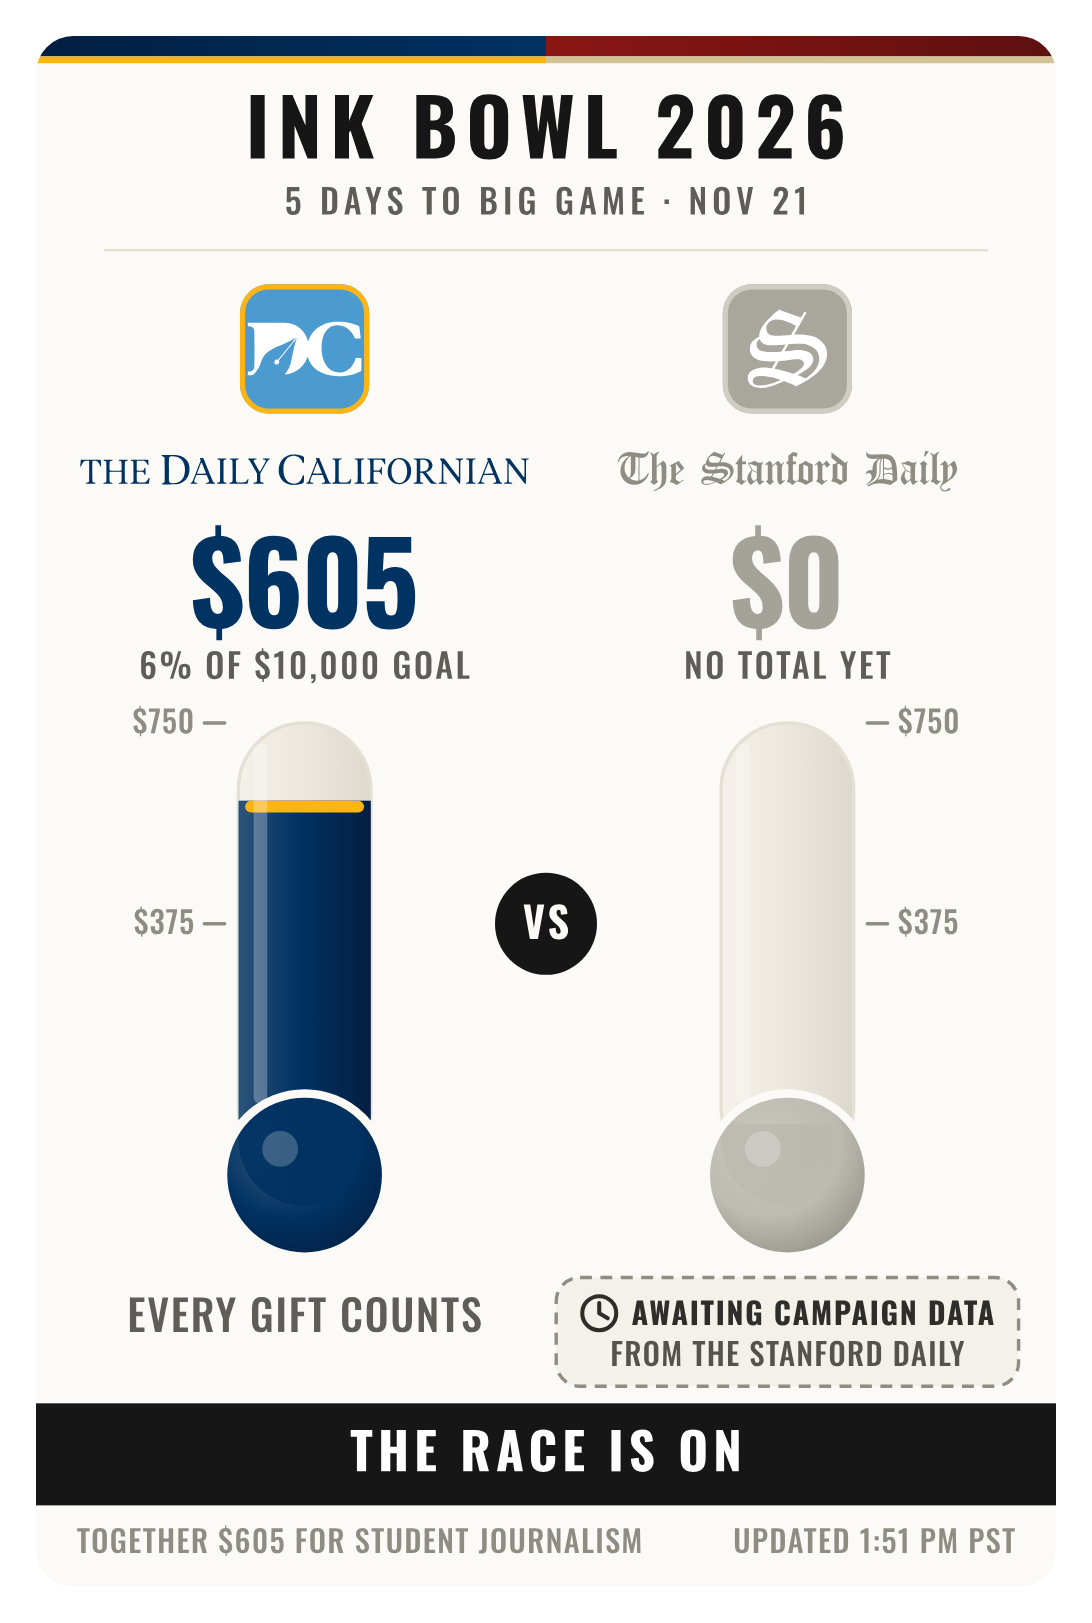
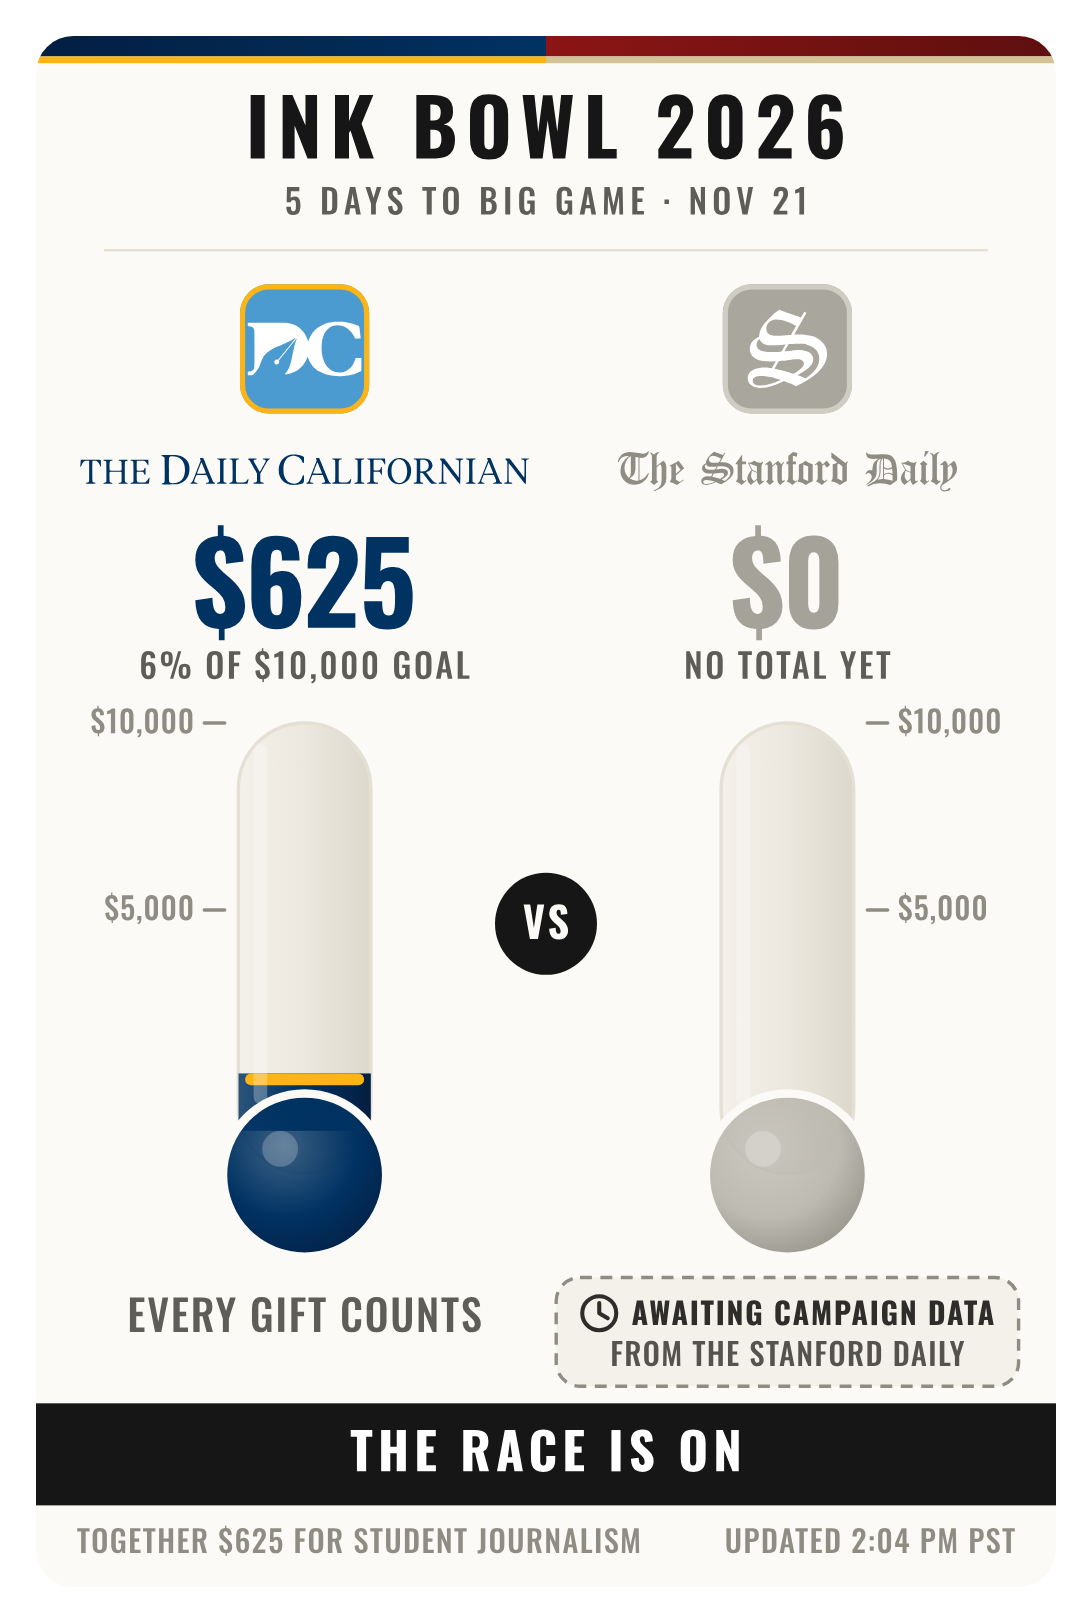
Fix: thermometer fill now agrees with '% of goal' (the tube is the goal)
The board said '6% of $10,000 goal' but the tube looked nearly full: it was scaled to the leader
(+12%), so the leading tube was always ~90% full. When a goal is known the top of the tube is now
the goal (ticks $5,000 / $10,000) and fill = raised / goal. The scale is still shared in dollars; it
extends with a dashed goal line only if the goal is passed; with no goal it falls back to the leader.

Zero is now where the tube meets the bulb (not inside it) so a small total is a visible sliver of
mercury; mercury is drawn only when there is some; the GOAL label moved beside the tube.

Tests: FILL AGREES WITH THE GOAL LABEL (the exact complaint), over-goal, no-goal. Docs: CHANGELOG,
HISTORY (decision 3 reversed), README, FAIRNESS, CLAUDE.md invariant.

Claude-Session: https://claude.ai/code/session_01EpxwSrKrkjt1ueGdWtL3w7

diff --git a/src/render.js b/src/render.js
@@ -174,22 +174,26 @@ function thermometer(side, { cx, flip, T, accents }) {
   const x = cx - TUBE_W / 2;
   const rx = TUBE_W / 2;
   const bulbCy = Y.tubeBottom + BULB_R * 0.62;
-  const fillH = r2(tubeH * side.frac);
-  const fillY = r2(Y.tubeBottom - fillH);
+  // Zero is where the tube meets the bulb (as on a real thermometer), not inside the bulb: otherwise a small total sits
+  // entirely behind the bulb and the tube looks empty. The scale runs from `zeroY` up to the top of the tube.
+  const zeroY = bulbCy - BULB_R + 2;
+  const span = zeroY - Y.tubeTop;
+  const fillH = r2(span * side.frac);
+  const fillY = r2(zeroY - fillH);
   const id = side.key;
   const dir = flip ? -1 : 1;              // ticks + labels on the OUTER edge
   const tickX = cx + dir * (TUBE_W / 2 + 8);
 
   const ticks = [0.5, 1].map((f) => {
-    const y = r2(Y.tubeBottom - tubeH * f);
+    const y = r2(zeroY - span * f);
     return `<line x1="${tickX}" y1="${y}" x2="${tickX + dir * 12}" y2="${y}" stroke="${INK_FAINT}" stroke-width="2" stroke-linecap="round"/>
       ${T(side.scaleLabels[f], { face: 'display500', size: 18, x: tickX + dir * 18, y: y + 6, anchor: flip ? 'end' : 'start', spacing: 0.5, fill: INK_FAINT })}`;
   }).join('');
 
   const goal = side.goalFrac != null ? (() => {
-    const y = r2(Y.tubeBottom - tubeH * side.goalFrac);
+    const y = r2(zeroY - span * side.goalFrac);
     return `<line x1="${x - 10}" y1="${y}" x2="${x + TUBE_W + 10}" y2="${y}" stroke="${INK}" stroke-width="2" stroke-dasharray="4 4"/>
-      ${T('GOAL', { face: 'display700', size: 16, x: cx, y: y - 7, anchor: 'middle', spacing: 1.5, fill: INK })}`;
+      ${T('GOAL', { face: 'display700', size: 16, x: flip ? x + TUBE_W + 14 : x - 14, y: y + 5, anchor: flip ? 'start' : 'end', spacing: 1.5, fill: INK })}`;
   })() : '';
 
   const cap = side.frac > 0
@@ -216,7 +220,7 @@ function thermometer(side, { cx, flip, T, accents }) {
     </defs>
     ${ticks}
     <rect x="${x}" y="${Y.tubeTop}" width="${TUBE_W}" height="${tubeH + BULB_R * 0.6}" rx="${rx}" fill="url(#glass-${id})" stroke="${RULE}" stroke-width="2"/>
-    <rect x="${x}" y="${fillY}" width="${TUBE_W}" height="${fillH + BULB_R}" fill="url(#merc-${id})" clip-path="url(#tube-${id})"/>
+    ${side.frac > 0 ? `<rect x="${x}" y="${fillY}" width="${TUBE_W}" height="${fillH + 20}" fill="url(#merc-${id})" clip-path="url(#tube-${id})"/>` : ''}
     ${cap}
     <rect x="${x + 9}" y="${Y.tubeTop + 12}" width="8" height="${tubeH - 24}" rx="4" fill="#FFFFFF" fill-opacity="0.28"/>
     <circle cx="${cx}" cy="${bulbCy}" r="${BULB_R}" fill="url(#bulb-${id})" stroke="${PAPER}" stroke-width="5"/>

diff --git a/src/model.js b/src/model.js
@@ -90,16 +90,23 @@ export function buildBoard({ event, gameDate, now = new Date(), cal, stanford })
 
   const [a, b] = sides;
   const top = Math.max(a.raised, b.raised);
-  // Scale to the leader with headroom, so the race always fills the frame.
-  // Falls back to a goal (or $1k) before any money arrives.
-  const scaleMax = niceCeiling(top > 0 ? top * 1.12 : (a.goal ?? b.goal ?? 4000) * 0.25);
+  // HONEST SCALE: when a goal is known the tube IS the goal (top of the tube = the goal), so how full it is always agrees
+  // with "N% of $G goal". It only grows if someone raises past the goal. (An earlier version scaled to the leader, so the
+  // leading tube looked nearly full at 6% of goal, which was misleading.) The scale is shared by both sides, in dollars,
+  // so the taller tube is still the side that has raised more. With no goal at all, fall back to the leader with headroom.
+  const goalTop = Math.max(0, ...sides.map((s) => s.goal ?? 0));
+  const scaleMax = goalTop > 0
+    ? niceCeiling(Math.max(goalTop, top * 1.05))
+    : niceCeiling(top > 0 ? top * 1.12 : 1000);
 
   const MIN_VISIBLE = 0.035; // a $5 gift should still be visible as mercury
   for (const s of sides) {
     const frac = scaleMax > 0 ? s.raised / scaleMax : 0;
     s.frac = s.raised > 0 ? Math.max(MIN_VISIBLE, Math.min(1, frac)) : 0;
     s.pctOfGoal = s.goal ? Math.min(999, Math.round((s.raised / s.goal) * 100)) : null;
-    s.goalFrac = s.goal && s.goal <= scaleMax ? s.goal / scaleMax : null;
+    // The goal line only appears when the goal sits below the top of the tube (i.e. someone has passed it); otherwise the
+    // top of the tube is the goal and the top tick says so.
+    s.goalFrac = s.goal && s.goal / scaleMax < 0.995 ? s.goal / scaleMax : null;
     s.raisedText = formatMoney(s.raised);
     s.goalText = s.goal ? formatMoney(s.goal) : null;
     s.scaleLabels = { 0.5: formatMoney(scaleMax / 2), 1: formatMoney(scaleMax) };

diff --git a/docs/FAIRNESS.md b/docs/FAIRNESS.md
@@ -12,7 +12,7 @@ checked here. Rules live in `src/render.js`; tests in `test/render.test.mjs` enf
 | **Decorative accents** (tile ring, mercury cap, top-bar underline) | **Brand accents, structurally identical** (`ACCENTS = 'brand'`) | **Owner's decision, 2026-11-13:** keep California Gold and Stanford Sandstone. Ring width/opacity, cap size and underline are identical for both sides, but the colours are not equally vivid: gold is far more saturated than sandstone, so Cal's ring and cap draw a bit more attention. This was shown side by side (`design/accent-parity.png`) and accepted. `ACCENTS = 'neutral'` gives both one identical pale highlight if that changes. Tests assert the treatment is structurally identical. |
 | **A side awaiting its campaign** | Grayed-out column + dashed "AWAITING CAMPAIGN DATA" notice; **nobody leads** while either side is pending | Symmetric (either paper gets it). Neutral banner ("THE RACE IS ON"), "EVERY GIFT COUNTS" for the live side, `leader: null`. A side with no data is never compared against: no "leads by", "ahead by" or "takes the lead". Compared: `design/2026-pending-states.png`. |
 | **Amounts, goal lines, labels, ticks** | Same typeface, size, weight, spacing | By construction (one code path). |
-| **Thermometers** | Identical geometry; **one shared scale keyed to the leader** | By construction; the taller tube is always the side that is ahead. |
+| **Thermometers** | Identical geometry; **one shared dollar scale whose top is the goal** (tube fill = raised / goal) | By construction; the taller tube is always the side that is ahead. |
 | **Leader / trailer messaging** | Symmetric logic | The trailing side gets the "$X takes the lead" call to action in its team colour; the leader's line is quieter; a tie reads "Dead even" for both. Data-driven, not paper-driven. |
 | **Headline band** | Takes the leader's colour | Data-driven. |
 | **Donate buttons** (page) | Same size and style, one per paper | Only the label length differs (the names differ). |

diff --git a/CHANGELOG.md b/CHANGELOG.md
@@ -3,7 +3,19 @@
 All notable changes. Newest first. Everything below shipped on 2026-11-12 unless noted; commit
 hashes are on `main`. Live site: **https://inkbowl.giving**.
 
-## LIVE ON 2026 (this change): Daily Cal live, Stanford awaiting its link
+## Fix: the thermometer now agrees with "% of goal" (this change)
+- **Bug (reported 2026-11-16):** the board said "6% of $10,000 goal" but the thermometer looked almost full. The tubes were
+  scaled to the *leader* (leader's total + 12%), so the leading tube was always ~90% full however little had been raised.
+- **Fix:** when a goal is known the **tube is the goal**: the top of the tube is the goal ($10,000 -> ticks at $5,000 and
+  $10,000), so fill = raised / goal and always matches the label. The scale is still shared and in dollars, so the taller tube is
+  still the side that has raised more; it only grows (with a dashed goal line) if someone passes the goal. With no goal known it
+  falls back to the leader with headroom.
+- **Zero at the bulb, not inside it:** a small total used to sit entirely behind the bulb so the tube looked empty. Zero is now
+  where the tube meets the bulb (as on a real thermometer), so 6% is a visible sliver of mercury. Mercury is only drawn when
+  there is some (no stray gray bar on an empty tube). The "GOAL" label (shown once the goal is passed) moved beside the tube.
+- Tests: `FILL AGREES WITH THE GOAL LABEL` (the exact complaint, across several states), over-goal and no-goal cases.
+
+## LIVE ON 2026 (`b02235d`): Daily Cal live, Stanford awaiting its link
 - **`SEASON = "2026"`** (2026-11-16). The Daily Cal's campaign (`inkbowl-2026-hgksv5`, "Ink Bowl Competitive Fund Drive 2026")
   is live and read from its real page ($605 of $10,000 when taken live). `STANFORD_SLUG_2026` is blank (no Stanford 2026
   campaign existed on its Givebutter hub when checked), so Stanford is *pending* until its link is shared. Title, page, PNG and

diff --git a/docs/HISTORY.md b/docs/HISTORY.md
@@ -46,8 +46,10 @@ Whoever ran the earlier thermometer is not documented; we could not confirm what
    manual pin -> API -> public page -> last good value -> $0. The board never blanks.
 2. **Cloudflare Worker + KV**, deployed by GitHub Actions on push to `main`, pinned to one
    Cloudflare account so the wrong environment fails instead of landing elsewhere.
-3. **One shared scale keyed to the leader** (not the goal), so the race looks close and both tubes
-   are substantial; the gap is stated as an actionable number under the trailing side ("$1,415 takes
+3. **~~One shared scale keyed to the leader~~ REVERSED 2026-11-16: the tube is the goal.** The original choice kept the race
+   looking close but made the leading tube look nearly full at 6% of goal, contradicting the "% of goal" label (reported by the
+   owner). Now top of tube = the goal and fill = raised / goal, shared in dollars across both sides. Original rationale:
+   a leader-keyed scale kept both tubes substantial; the gap is stated as an actionable number under the trailing side ("$1,415 takes
    the lead"). Goal shown as a percentage and a dashed line once within range.
 4. **Mobile-first**: a Givebutter story image shows at ~340 px on a phone; type sizes are chosen for
    that. Official primaries: Berkeley Blue `#003262` and Stanford Cardinal `#8C1515`

diff --git a/CLAUDE.md b/CLAUDE.md
@@ -33,6 +33,9 @@ nobody "leads" (no lead claims). Never let last season's total appear under a ne
   marks equal footprint (`markLayout()`), accents structurally identical (`ACCENTS`; the owner chose the brand
   gold/sandstone knowing gold is more vivid, so do not "fix" that without asking). Check every visual change at
   phone width, including the swapped case, and keep the `FAIRNESS:` tests passing.
+- **The thermometer must agree with the labels:** when a goal is known the top of the tube is the goal and fill = raised / goal,
+  so "6% of goal" can never look nearly full (the `FILL AGREES WITH THE GOAL LABEL` test guards it). Never rescale the tube to
+  the leader.
 - Server-side PNG stays off (`SERVER_PNG=false`) on Workers Free (10 ms CPU). Staff use `/png`.
 - KV writes stay write-on-change (Free allows 1,000/day).
 - `https://inkbowl.giving` must keep serving the page to browsers and the SVG to image requests.
